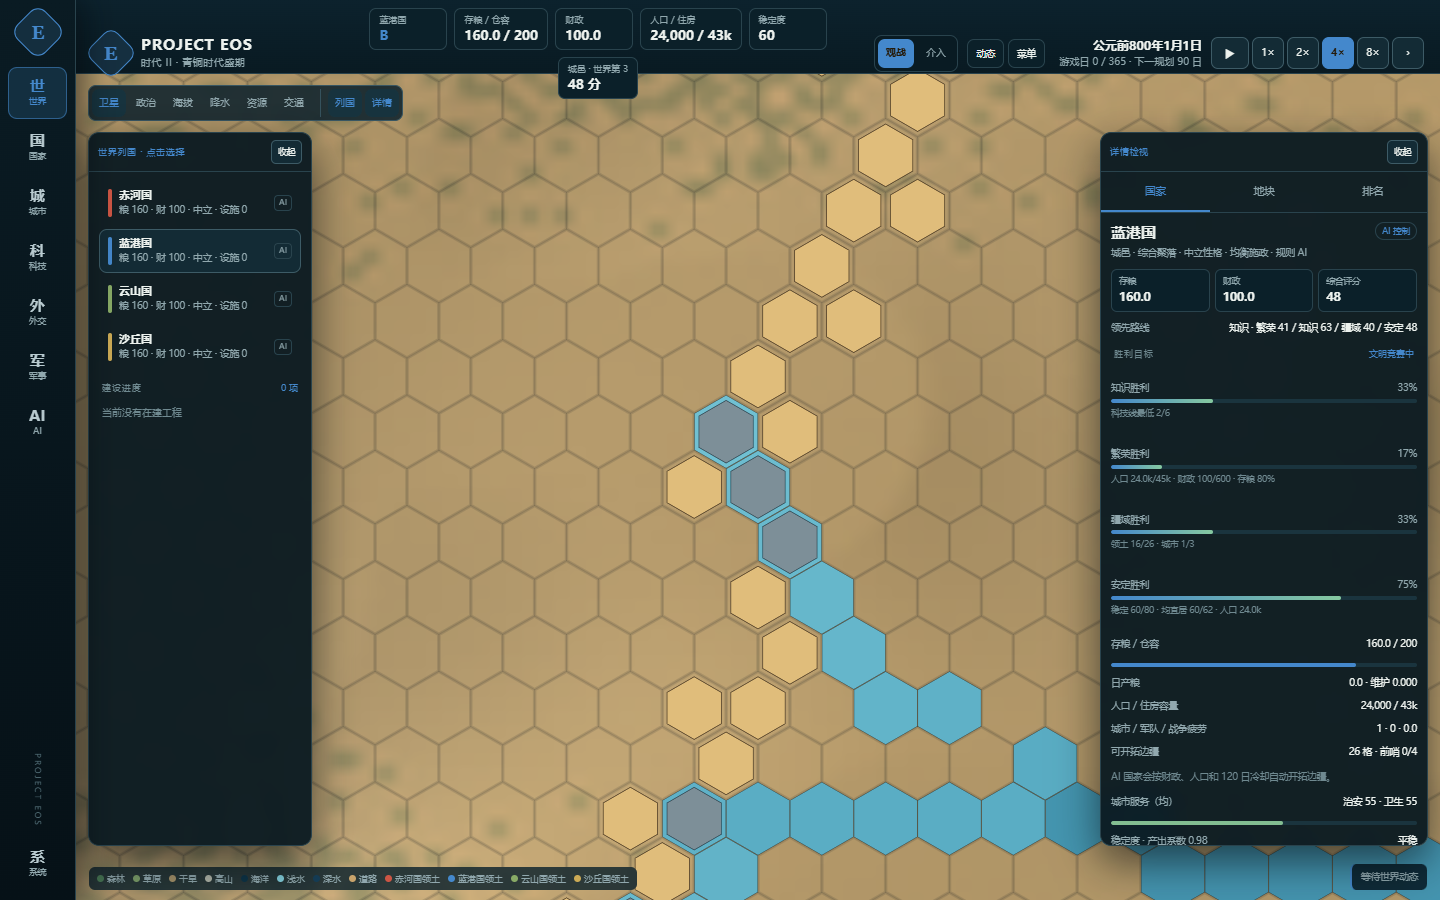
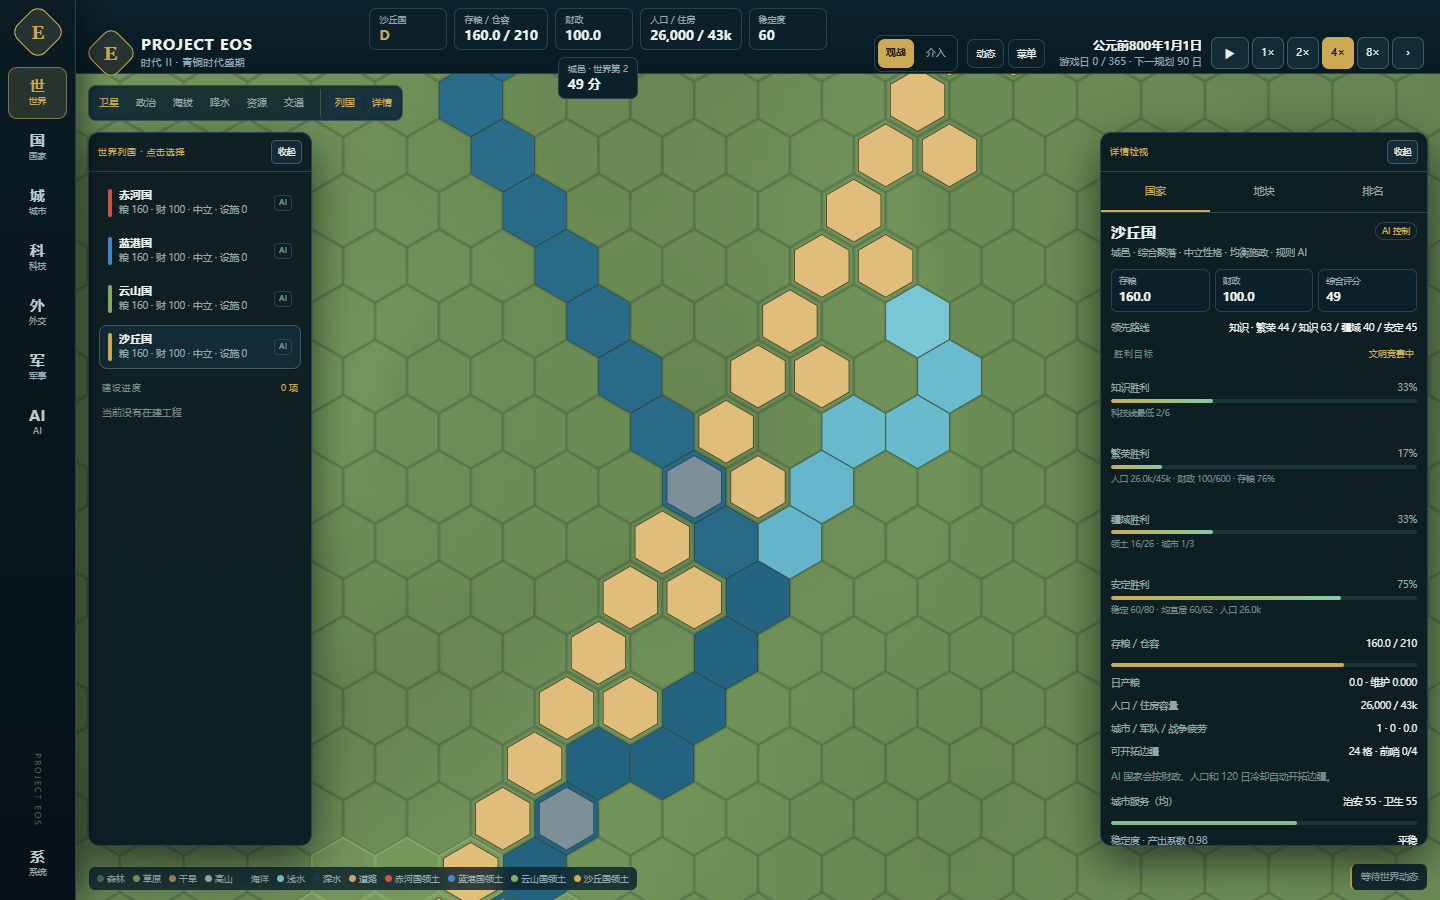
fix(map): audit generation invariants and connect river cells
- Build v2 river cells from the connected fine-grid hydrology
- Validate river networks, core connectivity and bridge-cell consistency
- Fix commerce adjacency lost by reusing an exhausted neighbor generator
- Scale climate and volcano smoothing to the physical cell size
- Correct river summary counts and refresh audited screenshots

diff --git a/dashboard.html b/dashboard.html
@@ -1299,7 +1299,7 @@ function loadTerrainTexture(url){
   terrainImage=null;terrainReady=false;terrainUrl=url||null;
   if(!url)return;
   const image=new Image();
-  image.onload=()=>{terrainImage=image;terrainReady=true;render(true);};
+  image.onload=()=>{if(terrainUrl!==url)return;terrainImage=image;terrainReady=true;render(true);};
   image.src=url;
 }
 function render(force=false){

diff --git a/mapgen_v2.py b/mapgen_v2.py
@@ -30,6 +30,7 @@ CONTINUOUS_HEIGHT = V2_HEIGHT * CONTINUOUS_SCALE
 CONTINUOUS_RADIUS_KM = V2_RADIUS_KM / CONTINUOUS_SCALE
 CONTINUOUS_CELL_AREA_KM2 = (3 * math.sqrt(3) / 2) * CONTINUOUS_RADIUS_KM ** 2
 CONTINUOUS_RIVER_MIN_BASIN = max(1, round(17 * V1_CELL_AREA_KM2 / CONTINUOUS_CELL_AREA_KM2))
+V2_RIVER_MIN_BASIN = max(1, round(17 * V1_CELL_AREA_KM2 / V2_CELL_AREA_KM2))
 DEPTH_STOPS = [
     [0.3, "#b9e6ed"],
     [1.2, "#83cfdd"],
@@ -298,7 +299,7 @@ def _generate_candidate(seed: int, countries: list[dict[str, Any]]) -> dict[str,
         [aggregated[(x, y)]["land"] for x in range(V2_WIDTH)]
         for y in range(V2_HEIGHT)
     ])
-    _, _, v2_basin, _, v2_slope = worldgen.gen_hydrology(
+    v2_parent, _, v2_basin, _, v2_slope = worldgen.gen_hydrology(
         v2_land, v2_elev,
         np.array([[aggregated[(x, y)]["annual_precip_mm"] for x in range(V2_WIDTH)] for y in range(V2_HEIGHT)]),
         V2_WIDTH, V2_HEIGHT, V2_RADIUS_KM, V2_CELL_AREA_KM2,
@@ -317,10 +318,7 @@ def _generate_candidate(seed: int, countries: list[dict[str, Any]]) -> dict[str,
         [aggregated[(x, y)]["annual_mean_temp_c"] for x in range(V2_WIDTH)]
         for y in range(V2_HEIGHT)
     ])
-    polity_river = np.array([
-        [aggregated[(x, y)]["river_count"] > 0 for x in range(V2_WIDTH)]
-        for y in range(V2_HEIGHT)
-    ])
+    polity_river = polity_land & (v2_basin >= V2_RIVER_MIN_BASIN)
     polity_basin = v2_basin
     polity_hazards = {
         key: np.array([
@@ -380,18 +378,21 @@ def _generate_candidate(seed: int, countries: list[dict[str, Any]]) -> dict[str,
         cell for cell in _aggregate_roads(raw_roads, river)
         if polity_land[cell["tile"]["row"], cell["tile"]["col"]]
     ])
+    for cell in road_cells:
+        cell["kind"] = (
+            "bridge" if polity_river[cell["tile"]["row"], cell["tile"]["col"]]
+            else "road"
+        )
     tiles = []
     river_cells = []
     max_river_basin = max(
-        (data["basin"] for data in aggregated.values()
-         if data["land"] and data["river_count"]),
+        (float(v2_basin[y, x]) for y in range(V2_HEIGHT) for x in range(V2_WIDTH)
+         if polity_river[y, x]),
         default=1,
     )
     for y in range(V2_HEIGHT):
         for x in range(V2_WIDTH):
             data = aggregated[(x, y)]
-            px, py = -1, -1
-            # Recompute the downstream parent on the v2 grid to preserve the old contract.
             tiles.append({
                 "q": x - (y - (y & 1)) // 2, "r": y, "col": x, "row": y,
                 "latitude_deg": round(float(polity_lat[y, x]), 2),
@@ -403,29 +404,25 @@ def _generate_candidate(seed: int, countries: list[dict[str, Any]]) -> dict[str,
                 "monthly_temp_c": [round(value, 1) for value in data["monthly_temp_c"]],
                 "monthly_precip_mm": [round(value, 1) for value in data["monthly_precip_mm"]],
                 "slope": round(float(v2_slope[y, x]), 4),
-                "river": bool(data["land"] and data["river_count"] > 0),
+                "river": bool(polity_river[y, x]),
                 "drainage_area_km2": int(v2_basin[y, x] * V2_CELL_AREA_KM2),
-                "downstream": None,  # filled below from v2 parent
+                "downstream": None,
                 "hazards": {key: round(float(data[key]), 3) for key in hazards},
                 "owner_id": str(ownership[y, x]) or None,
             })
-            if data["land"] and data["river_count"]:
-                ratio = min(1.0, data["basin"] / max(1, max_river_basin))
+            if polity_river[y, x]:
+                ratio = min(1.0, float(v2_basin[y, x]) / max(1, max_river_basin))
                 depth = max(0.3, min(12.0, 0.3 + 9.6 * ratio ** 0.55))
                 river_cells.append({
                     "id": f"RV{x:03d}{y:03d}",
-                    "network_id": f"RV{x // 8:02d}{y // 8:02d}",
+                    "network_id": None,
                     "tile": {"col": x, "row": y},
                     "depth_m": round(depth, 3),
-                    "coverage": round(data["river_count"] / (CONTINUOUS_SCALE ** 2), 3),
+                    "coverage": round(min(1.0, data["river_count"] / (CONTINUOUS_SCALE ** 2)) or .15, 3),
                     "flow_m3_per_year": round(data["flow"], 1),
-                    "drainage_area_km2": int(data["basin"] * CONTINUOUS_CELL_AREA_KM2),
+                    "drainage_area_km2": int(v2_basin[y, x] * V2_CELL_AREA_KM2),
                 })
-    # A second hydrology pass supplies valid v2 parent pointers without drawing lines.
-    v2_parent, _, _, _, _ = worldgen.gen_hydrology(
-        v2_land, v2_elev, polity_p,
-        V2_WIDTH, V2_HEIGHT, V2_RADIUS_KM, V2_CELL_AREA_KM2,
-    )
+    river_cells = _label_river_networks(river_cells)
     for tile in tiles:
         x, y = tile["col"], tile["row"]
         px, py = v2_parent[y, x]
@@ -470,14 +467,14 @@ def _generate_candidate(seed: int, countries: list[dict[str, Any]]) -> dict[str,
                 "resolution_km": CONTINUOUS_RADIUS_KM,
                 "sampling": "4x4 block aggregation at hex centers",
             },
-            "river_depth_model": "log_flow_proxy_v1; depth is an estimate, not a hydraulic measurement",
+            "river_depth_model": "basin_area_proxy_v2; depth is an estimate, not a hydraulic measurement",
         },
         "world_summary": {
             "land_hexes": int(polity_land.sum()),
             "ocean_hexes": int((~polity_land).sum()),
             "land_area_km2": round(float(polity_land.sum() * V2_CELL_AREA_KM2)),
             "maximum_elevation_m": round(float(v2_elev.max())),
-            "river_hexes": int(polity_river.sum()),
+            "river_hexes": len(river_cells),
             "river_cell_count": len(river_cells),
             "road_cell_count": len(road_cells),
             "unclaimed_land_hexes": int(np.count_nonzero(polity_land & (ownership == ""))),
@@ -506,12 +503,37 @@ def _generate_candidate(seed: int, countries: list[dict[str, Any]]) -> dict[str,
     return world
 
 
+def _label_river_networks(river_cells: list[dict[str, Any]]) -> list[dict[str, Any]]:
+    by_coord = {(cell["tile"]["col"], cell["tile"]["row"]): cell for cell in river_cells}
+    remaining = set(by_coord)
+    components = []
+    while remaining:
+        start = next(iter(remaining))
+        remaining.remove(start)
+        queue = deque([start])
+        component = [start]
+        while queue:
+            current = queue.popleft()
+            for neighbor in worldgen.neighbors(*current, V2_WIDTH, V2_HEIGHT):
+                if neighbor in remaining:
+                    remaining.remove(neighbor)
+                    queue.append(neighbor)
+                    component.append(neighbor)
+        components.append(component)
+    components.sort(key=len, reverse=True)
+    for index, component in enumerate(components, 1):
+        for coord in component:
+            by_coord[coord]["network_id"] = f"RV{index:02d}"
+    return river_cells
+
+
 def validate_v2(world: dict[str, Any]) -> bool:
     metadata = world["metadata"]
     width, height = metadata["grid_width"], metadata["grid_height"]
     assert metadata["schema_version"] == 2
     assert len(world["tiles"]) == width * height
     assert world["world_summary"]["land_hexes"] == sum(tile["land"] for tile in world["tiles"])
+    assert world["world_summary"]["river_hexes"] == len(world["river_cells"])
     all_occupied = set()
     for polity in world["polities"]:
         assert len(polity["initial_tiles"]) == mapgen.CORE_TILES
@@ -522,9 +544,19 @@ def validate_v2(world: dict[str, Any]) -> bool:
             if (tile["col"], tile["row"]) == capital
         )
         assert capital_tile["land"] and not capital_tile["river"], "capital must be dry land"
-        for coord in polity["initial_tiles"]:
-            assert tuple(coord) not in all_occupied
-            all_occupied.add(tuple(coord))
+        coords = {tuple(coord) for coord in polity["initial_tiles"]}
+        for coord in coords:
+            assert coord not in all_occupied
+            all_occupied.add(coord)
+        seen = {capital}
+        queue = deque([capital])
+        while queue:
+            current = queue.popleft()
+            for neighbor in worldgen.neighbors(*current, width, height):
+                if neighbor in coords and neighbor not in seen:
+                    seen.add(neighbor)
+                    queue.append(neighbor)
+        assert seen == coords, "polity core is not connected"
 
     tiles = {(tile["col"], tile["row"]): tile for tile in world["tiles"]}
     for tile in world["tiles"]:
@@ -559,6 +591,20 @@ def validate_v2(world: dict[str, Any]) -> bool:
             cell["tile"]["col"] == tile["col"] and cell["tile"]["row"] == tile["row"]
             for cell in world["river_cells"]
         )
+    river_networks: dict[str, list[tuple[int, int]]] = {}
+    for cell in world["river_cells"]:
+        coord = (cell["tile"]["col"], cell["tile"]["row"])
+        river_networks.setdefault(cell["network_id"], []).append(coord)
+    for coords in river_networks.values():
+        seen = {coords[0]}
+        queue = deque(seen)
+        while queue:
+            current = queue.popleft()
+            for neighbor in worldgen.neighbors(*current, width, height):
+                if neighbor in coords and neighbor not in seen:
+                    seen.add(neighbor)
+                    queue.append(neighbor)
+        assert seen == set(coords), "river network is not hex-connected"
     depths = [stop[0] for stop in world["rendering"]["river_depth_stops"]]
     assert depths == sorted(depths)
 
@@ -570,6 +616,7 @@ def validate_v2(world: dict[str, Any]) -> bool:
         coord = (cell["tile"]["col"], cell["tile"]["row"])
         assert tiles[coord]["land"]
         assert cell["kind"] in {"road", "bridge"}
+        assert (cell["kind"] == "bridge") == bool(tiles[coord]["river"])
         by_network.setdefault(cell["network_id"], []).append(coord)
     for coords in by_network.values():
         if not coords:

diff --git a/worldgen.py b/worldgen.py
@@ -111,7 +111,7 @@ def gen_climate(rng,lat,land,elev,w=W,h=H,r_km=R_KM):
                 humidity=max(.22,humidity-.05)
             prev_h=z
     # Smoothed regional precipitation microstructure, including leeward drying.
-    p *= np.clip(1+.13*gaussian_filter(rng.normal(size=(h,w)),sigma=2.0*r_km/R_KM),.7,1.4)
+    p *= np.clip(1+.13*gaussian_filter(rng.normal(size=(h,w)),sigma=max(0.5,2.0*R_KM/r_km)),.7,1.4)
     p=np.clip(p,70,3300)
     # Seasonal rainfall: summer monsoon at low latitudes, winter storms at high latitudes.
     monthly=[]
@@ -195,7 +195,8 @@ def gen_hazards(land,elev,fault,biome,p,tmean,lat,river,basin,slope,dist_ocean,w
         for idx in np.linspace(0,len(fault_candidates)-1,min(5,len(fault_candidates)),dtype=int):
             yy,xx=fault_candidates[idx]
             yyarr,xxarr=np.mgrid[:h,:w]
-            eruption=np.maximum(eruption,np.exp(-(((xxarr-xx)/4.3)**2+((yyarr-yy)/4.3)**2)))
+            sigma=max(1.0,4.3*R_KM/r_km)
+            eruption=np.maximum(eruption,np.exp(-(((xxarr-xx)/sigma)**2+((yyarr-yy)/sigma)**2)))
     eruption*=fault*land
     return {'flood':flood,'drought':drought,'earthquake':earthquake,'volcano':eruption,
             'wildfire':wildfire,'cyclone':cyclone}

diff --git a/tests/test_mapgen_v2.py b/tests/test_mapgen_v2.py
@@ -28,6 +28,16 @@ def test_v2_world_has_continuous_terrain_and_cell_entities(tmp_path):
     assert world["terrain"]["height"] > V2_HEIGHT
     assert len(world["river_cells"]) > 100
     assert len(world["road_cells"]) > 20
+    assert world["world_summary"]["river_hexes"] == len(world["river_cells"])
+    assert world["world_summary"]["river_cell_count"] == len(world["river_cells"])
+    assert all(
+        not next(
+            tile for tile in world["tiles"]
+            if tile["col"] == polity["capital"]["col"]
+            and tile["row"] == polity["capital"]["row"]
+        )["river"]
+        for polity in world["polities"]
+    )
     assert all(cell["depth_m"] > 0 for cell in world["river_cells"])
     assert {cell["kind"] for cell in world["road_cells"]} <= {"road", "bridge"}
     assert len({cell["id"] for cell in world["river_cells"]}) == len(world["river_cells"])

diff --git a/tests/test_simulation.py b/tests/test_simulation.py
@@ -2,7 +2,7 @@ import numpy as np
 
 from core.rules import RuleEngine
 from core.simulation import Simulation
-from core.society import food_capacity
+from core.society import food_capacity, zone_adjacency
 from core.state import GameState, calendar_date
 
 
@@ -317,3 +317,12 @@ def test_old_save_gets_current_tech_content(tmp_path, state):
     restored = GameState.load(path)
     assert restored.config["tech_tree"]["bronze_metallurgy"]["label"] == "科技"
     assert restored.config["tech_tree"]["writing"]["label"] == "政治"
+
+
+def test_commerce_zone_gets_center_adjacency_bonus():
+    state = GameState.new(seed=2000)
+    city = state.countries["ELAR"].cities[0]
+    neighbor = next(state.world.neighbors(*city.center))
+    city.zones[neighbor] = "commerce"
+    bonus = zone_adjacency(city, neighbor, state.world)
+    assert bonus["tax"] > 1.0

diff --git a/core/society.py b/core/society.py
@@ -81,9 +81,9 @@ def zone_adjacency(city, coord: tuple[int, int], world=None) -> dict[str, float]
 
     zone = city.zones.get(coord, "unzoned")
     if world is not None:
-        adjacent = world.neighbors(*coord)
+        adjacent = list(world.neighbors(*coord))
     else:
-        adjacent = neighbors(*coord)
+        adjacent = list(neighbors(*coord))
     neighbor_zones = Counter(
         city.zones.get(neighbor, "unzoned") for neighbor in adjacent
     )

diff --git a/DEVELOPER_MANUAL.md b/DEVELOPER_MANUAL.md
@@ -1,6 +1,6 @@
 # Project Eos 开发说明书
 
-> 面向共同开发者的工程手册。最后更新：2026-11-11，对应当前代码与 96 项测试。
+> 面向共同开发者的工程手册。最后更新：2026-11-11，对应当前代码与 97 项测试。
 >
 > 代码是最终事实来源；当本文与代码不一致时，以代码为准，并请顺手更新本文。
 
@@ -54,7 +54,7 @@ Project Eos 是一个本地运行的文明模拟沙盘：
 | 军事 | 招募、行军、宣战、边境/远征战斗、占领、战争疲劳、和平 |
 | 目标 | 综合评分、四条正式胜利路线、自动结算、继续本局 |
 | AI | 多国规则 AI、OpenAI 兼容模型、逐国切换、预算/Token 记录、失败回退 |
-| 工程 | 存档槽、自动保存、动作日志回放、世界哈希校验、96 项 pytest |
+| 工程 | 存档槽、自动保存、动作日志回放、世界哈希校验、97 项 pytest |
 
 设计原则（来自 `PROJECT_PLAN.md`）：
 
@@ -1186,7 +1186,9 @@ POST /api/agents/budget
 - `mapgen.py`：v1 公平随机地图与自定义 2–12 国；旧测试和基线保持此路径。
 - `mapgen_v2.py`：新世界默认路径。先在高分辨率栅格上生成连续地形、水系、道路，再聚合到 144×108 细六边形。输出 `river_cells`、`road_cells`、连续地形纹理和河深色阶。
 - v2 地图半径 17 km，单元面积约 750 km²；旧地图半径 34 km、单元约 3,003 km²。
-- v2 河流阈值按真实汇水面积校准，不直接复用旧 17 格阈值；河深是汇水面积代理，不是水力测量值。
+- v2 河流阈值按真实汇水面积校准，不直接复用旧 17 格阈值；河格由细网格水文生成，同一 `network_id` 内必须六邻接连通；河深是汇水面积代理，不是水力测量值。
+- v2 首都选址禁止河格；`SETTLE` 在河格上返回 `RIVER_TILE`，AI 边疆候选也会跳过河格。
+- 连续气候噪声与火山核按物理尺度缩放，避免高分辨率栅格把气候切成高频噪点。
 - 旧 72×54 世界文件不能覆盖；v2 使用 `world_v2_custom_<seed>.json`。动态存档仍只保存 `world_file` 与 SHA-256。
 - 新建世界使用 A/B/C/D… 的通用 ID；固定基线仍使用 ELAR/MARIS/VAYR/SAHAR；颜色、公平度、AI 偏好和 UI 均按国家列表动态生成。
 - 新世界通过 UI（可增减国家）或 `POST /api/new_game` 创建。
@@ -1215,7 +1217,7 @@ POST /api/agents/budget
 | `test_agents_replay.py` | 观察隔离、AI 贸易、研究、玩家跳过、365 日、回放、断点续跑 |
 | `test_llm_adapter.py` | OpenAI 兼容协议、重试、预算、Usage、混用、失败回退 |
 
-当前：**96 passed**。
+当前：**97 passed**。
 
 ### 15.2 测试原则
 
@@ -1514,7 +1516,7 @@ livability, managed_by, zones, buildings, tiles_detail
 - 科技：3 线 × 6 级。
 - 默认规划周期：90 日。
 - 自动保存：每 30 日。
-- 测试：96 项。
+- 测试：97 项。
 - 实时服务默认端口：8765。
 
 ---

diff --git a/README.md b/README.md
@@ -1,6 +1,6 @@
 # Project Eos — 架空大陆世界底座与 v0.2 策略模拟器
 
-状态：**可运行的本地文明模拟垂直切片。已实现公平随机世界、多国 AI（默认四国，支持 2–12 国）、连续地形 + 144×108 细六边形地图、逐日经济、科技与时代、建设、外交、军事、正式胜利条件、城市实体与双视角、城市分区/邻接/宜居度/粮食物流/地方预算、AI/手动/LLM 三种城市治理、激进/中立/保守三种 AI 性格、一级/二级指挥台导航、地图通知气泡、存档槽与动作回放。本地实时指挥台支持观战/介入。96 项 pytest 全绿；长期平衡实验使用 Mock，DeepSeek 已完成小规模真实动作闭环。**
+状态：**可运行的本地文明模拟垂直切片。已实现公平随机世界、多国 AI（默认四国，支持 2–12 国）、连续地形 + 144×108 细六边形地图、逐日经济、科技与时代、建设、外交、军事、正式胜利条件、城市实体与双视角、城市分区/邻接/宜居度/粮食物流/地方预算、AI/手动/LLM 三种城市治理、激进/中立/保守三种 AI 性格、一级/二级指挥台导航、地图通知气泡、存档槽与动作回放。本地实时指挥台支持观战/介入。97 项 pytest 全绿；长期平衡实验使用 Mock，DeepSeek 已完成小规模真实动作闭环。**
 
 > 共同开发请先读 [`DEVELOPER_MANUAL.md`](DEVELOPER_MANUAL.md)：环境、架构、动作协议、API、存档/回放、测试与协作规范。
 >
@@ -156,8 +156,8 @@ HTTP 接口：
 
 - 新世界改为先生成 **576×432 连续地形栅格**，再量化为 **144×108 六边形**；格子屏幕尺寸保持原尺度，实际面积约为旧地图的 1/4。
 - 增加连续地形底图纹理：卫星图层在地形图上叠加细六边形网格，不再用每格纯色代替真实地势。
-- 河流改为占格实体：`river_cells` 记录每格水深、覆盖率、汇水面积和流量；颜色按水深变化，不再用中心线绘制。
-- 道路也改为占格实体：`road_cells` 记录道路/桥梁、所属国家和网络；动态修路会落到实际道路格，不再画首都到道路的虚拟线。
+- 河流改为占格实体：`river_cells` 记录每格水深、覆盖率、汇水面积和流量；颜色按水深变化，不再用中心线绘制。河格由细网格水文生成，同一 `network` 内保持六邻接连通。
+- 道路也改为占格实体：`road_cells` 记录道路/桥梁、所属国家和网络；动态修路会落到实际道路格，不再画首都到道路的虚拟线。河格不能作为城心，建城会返回 `RIVER_TILE`。
 - 旧 72×54 世界和存档继续兼容：没有 `river_cells`/`road_cells` 时自动回退旧渲染。
 - 新世界生成新增物理面积水位阈值、河格深度分布、连续地形 PNG 和 `/api/terrain` 端点。
 - 新增 v2 地图生成器测试；测试总数 95。

diff --git a/PROJECT_EOS_DEVELOPMENT_REPORT.md b/PROJECT_EOS_DEVELOPMENT_REPORT.md
@@ -2,7 +2,7 @@
 
 > 报告日期：2026-11-11  
 > 当前代码版本：v0.32 系列  
-> 测试状态：**96 passed**  
+> 测试状态：**97 passed**  
 > 仓库：<https://github.com/xd666-afk/PROJECT-EOS>  
 > 说明：本报告汇总从地图底座恢复、策略模拟器、城市系统、AI 接入到多国架构的完整演进，包含设计思路、最终落地效果、验证数据和遗留问题。
 
@@ -236,8 +236,8 @@ AgentScheduler ── deepcopy(observation) ──> HeuristicAgent / OpenAICompa
 - 先在高分辨率栅格上生成连续地形、气候、水系和道路，再聚合到 144×108 六边形；旧 72×54 基线保留。
 - 每个 v2 格子真实面积约 750 km²（旧地图约 3,003 km²），但屏幕上的六边形尺寸保持不变，地图通过平移查看。
 - 卫星图层先绘制连续地形 PNG，再叠加六边形网格；不再用每格纯色模拟地形。
-- 河流改为 `river_cells` 实体：每格有 `depth_m`、`coverage`、流量和汇水面积；UI 按水深色阶填充整格，不再画中心线。
-- 道路改为 `road_cells` 实体：初始道路网络连接都城，动态修路也落到实际格子；桥格使用不同颜色。
+- 河流改为 `river_cells` 实体：每格有 `depth_m`、`coverage`、流量和汇水面积；UI 按水深色阶填充整格，不再画中心线。河格由细网格水文生成，同一河网内保持六邻接连通。
+- 道路改为 `road_cells` 实体：初始道路网络连接都城，动态修路也落到实际格子；桥格使用不同颜色。首都必须是干地，河格建城会被拒绝。
 - 旧存档没有 `river_cells`/`road_cells` 时自动回退旧渲染。
 
 ![真实地形与细六边形](docs/report_assets/ui_v2_terrain.png)
